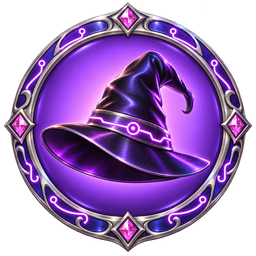
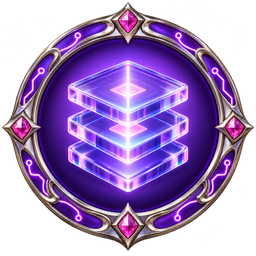
Arcane Fixes: techy names, never a witch; 200 is Stack Tracer with new art (Ames) [no player change]

diff --git a/src/components/AdminHub.vue b/src/components/AdminHub.vue
@@ -699,25 +699,26 @@ async function loadTriageNumbers() {
 // Done count five ("a finished card should be 5 fixes"). Tech magic art from
 // the badges repo (arcane/), an icon in a frame. A tier at 25, 50, 75, then
 // every 100. On the triage board only ("triage for now").
+// Techy names, never a witch (Ames 2026-11-02).
 const ARCANE: { at: number; name: string; art: string }[] = [
-  { at: 25, name: 'Wand Waver', art: arcane25 },
-  { at: 50, name: 'Potion Stirrer', art: arcane50 },
-  { at: 75, name: 'Spark Caster', art: arcane75 },
+  { at: 25, name: 'Bit Wrangler', art: arcane25 },
+  { at: 50, name: 'Patch Brewer', art: arcane50 },
+  { at: 75, name: 'Spark Coder', art: arcane75 },
   { at: 100, name: 'Apprentice Technomancer', art: arcane100 },
-  { at: 200, name: 'Hedge Witch of the Stack', art: arcane200 },
-  { at: 300, name: 'Rune Coder', art: arcane300 },
-  { at: 400, name: 'Spellwright', art: arcane400 },
-  { at: 500, name: 'Keeper of the Source', art: arcane500 },
-  { at: 600, name: 'Conjurer of Patches', art: arcane600 },
-  { at: 700, name: 'Enchantress of the Board', art: arcane700 },
-  { at: 800, name: 'Archmage of Triage', art: arcane800 },
-  { at: 900, name: 'Oracle of the Build', art: arcane900 },
-  { at: 1000, name: 'Grand Sorceress of Pyr', art: arcane1000 },
+  { at: 200, name: 'Stack Tracer', art: arcane200 },
+  { at: 300, name: 'Rune Compiler', art: arcane300 },
+  { at: 400, name: 'Syntax Smith', art: arcane400 },
+  { at: 500, name: 'Source Keeper', art: arcane500 },
+  { at: 600, name: 'Patch Architect', art: arcane600 },
+  { at: 700, name: 'Debug Seer', art: arcane700 },
+  { at: 800, name: 'Root Access', art: arcane800 },
+  { at: 900, name: 'Build Master', art: arcane900 },
+  { at: 1000, name: 'Grand Technomancer of Pyr', art: arcane1000 },
 ];
 const ARCANE_CARD = 5;
 /** Past 1000, a tier every 100 with the crown's art until its own is made. */
 function arcaneTier(at: number) {
-  return ARCANE.find(t => t.at === at) || { at, name: `Grand Sorceress of Pyr, ${Math.floor(at / 100) - 9} stars`, art: arcane1000 };
+  return ARCANE.find(t => t.at === at) || { at, name: `Grand Technomancer of Pyr, ${Math.floor(at / 100) - 9} stars`, art: arcane1000 };
 }
 const arcaneThresholds = (upTo: number) => {
   const out = ARCANE.map(t => t.at);
